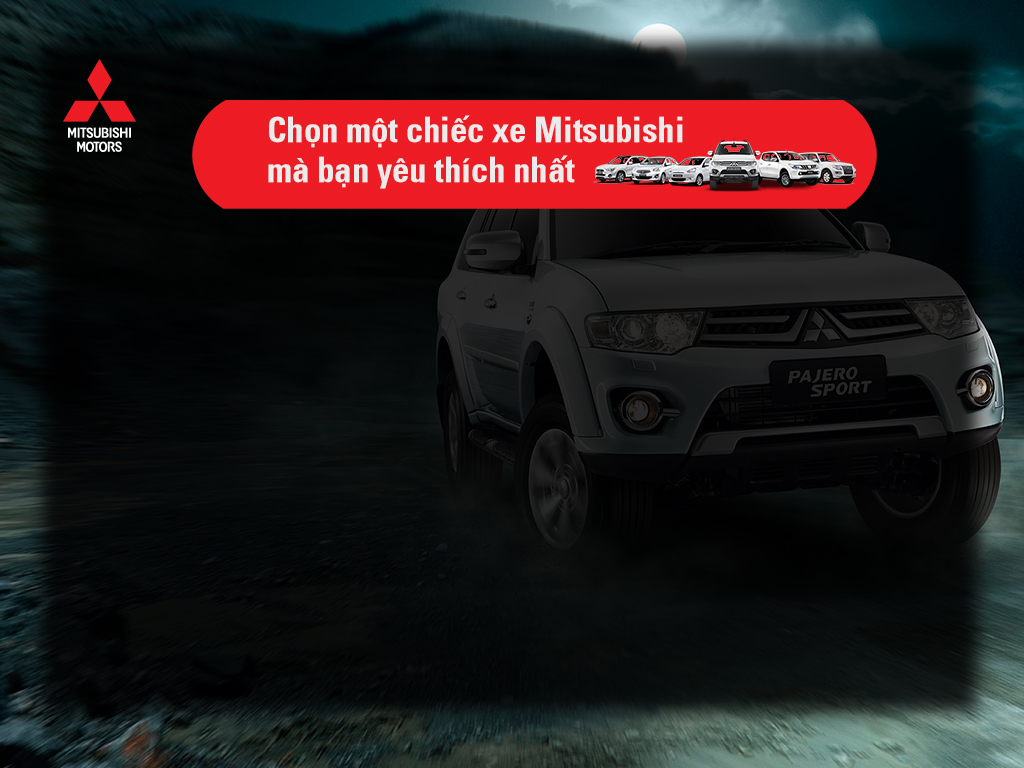
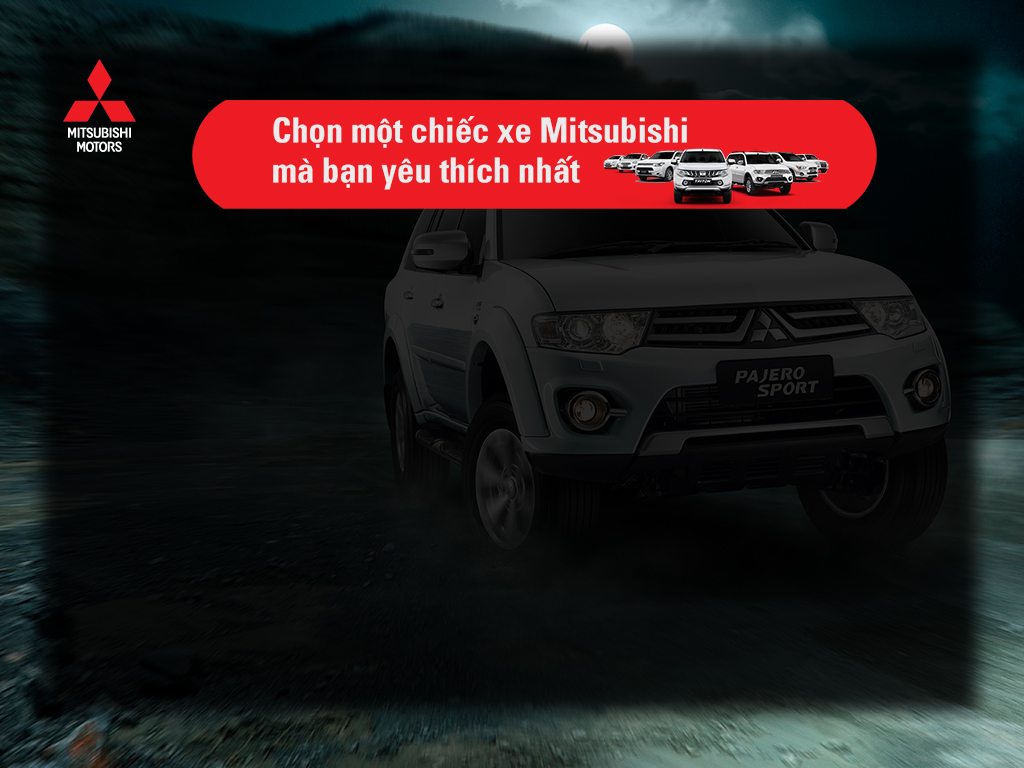
LINE 7 CAR VIDEO INSIDE 2 CAR NEW

diff --git a/js/game.js b/js/game.js
@@ -20,9 +20,18 @@ var GAME_STATE = GAME_PREVIEW;
 $(document).ready(function() {
     FastClick.attach(document.body);
     
-    $("#video-player")[0].loop = true;
+    gotoPage(1)
+       $("#video-player")[0].loop = true;
     $("#video-player")[0].play();
     
+      $("#scene01-ele01").show();
+      $("#scene01-ele01").addClass("fadeIn")
+      
+      setTimeout(function(){
+            $("#scene01-ele02").fadeIn();
+            $("#scene01-ele02").addClass("pulse")
+      }, 1500);
+ 
     
     $(".time-text").html(cntPreview+"s")
  
@@ -41,31 +50,6 @@ function setTimeoutResetApp() {
       },180000)
 }
 
-function stopVideoAndPlay(){
-      if (startGame!=undefined) {
-            return;
-      }
-       $("#video-panel").fadeOut();
-      $("#video-player")[0].pause();
-      
-      gotoPage(1)
-      $("#scene01-ele01").show();
-      $("#scene01-ele01").addClass("fadeIn")
-      
-      setTimeout(function(){
-            $("#scene01-ele02").fadeIn();
-            $("#scene01-ele02").addClass("pulse")
-      }, 1500);
-      
-      startGame = 1;
-}
-var startGame;
-$("#video-player").bind("mousedown",function(){
-     stopVideoAndPlay()
-})
-$("#video-player").bind("touchstart",function(){
-     stopVideoAndPlay()
-})
 
 function blockMove() {
       event.preventDefault() ;
@@ -136,6 +120,7 @@ function nextBUTTON() {
     $(window).scrollTop(0);
 
     if (current == 1) {
+      $("#video-player")[0].pause();
         current = 3;
         //setTimeout(function(){$("#input01").focus();},300)
       

diff --git a/index.html b/index.html
@@ -16,15 +16,19 @@
 <body ontouchmove='blockMove()'>
   
   <div class="wrapper">
-    <div id='video-panel' style='position: absolute;z-index: 999;left: 0;top: 0;'>
-      <video id='video-player' width="1024" height="768">
-        <source src="video/intro.mp4" type="video/mp4">
-      Your browser does not support the video tag.
-      </video>
-    </div>
-    <div class='page' bsq-id='1' style='display: none'>   
-      <div class='background' style="background: url('img/SCENE-(1).jpg')" ></div>
-      <img id='scene01-ele01' src='img/SCENE01_ELE_01.png' style='position: absolute;bottom: 60px;left: 0;z-index: 99;display: none;'>
+    
+    <div class='page' bsq-id='1' style='display: none'>
+      <div id='video-panel' style='position: absolute;z-index: 1;left: 0;top: -120px;'>
+        <video id='video-player' width="1024" height="768">
+          <source src="video/intro.mp4" type="video/mp4">
+        Your browser does not support the video tag.
+        </video>
+      </div>
+      
+      <img src='img/BOTTOM.png' style='position: absolute;bottom: -210px;left: 0;z-index: 9;height: 719px;width: 100%;'/>
+      
+      <!--<div class='background' style="background: url('img/SCENE-(1).jpg')" ></div>-->
+      <img id='scene01-ele01' src='img/SCENE01_ELE_01.png' style='position: absolute;bottom: 0px;left: 0;z-index: 99;display: none;'>
       <img id='scene01-ele02' src='img/BUTTON_START.png' style='position: absolute;bottom: 25px;left:395px;z-index: 99;display: none;' onclick='nextBUTTON()'>
      
       
